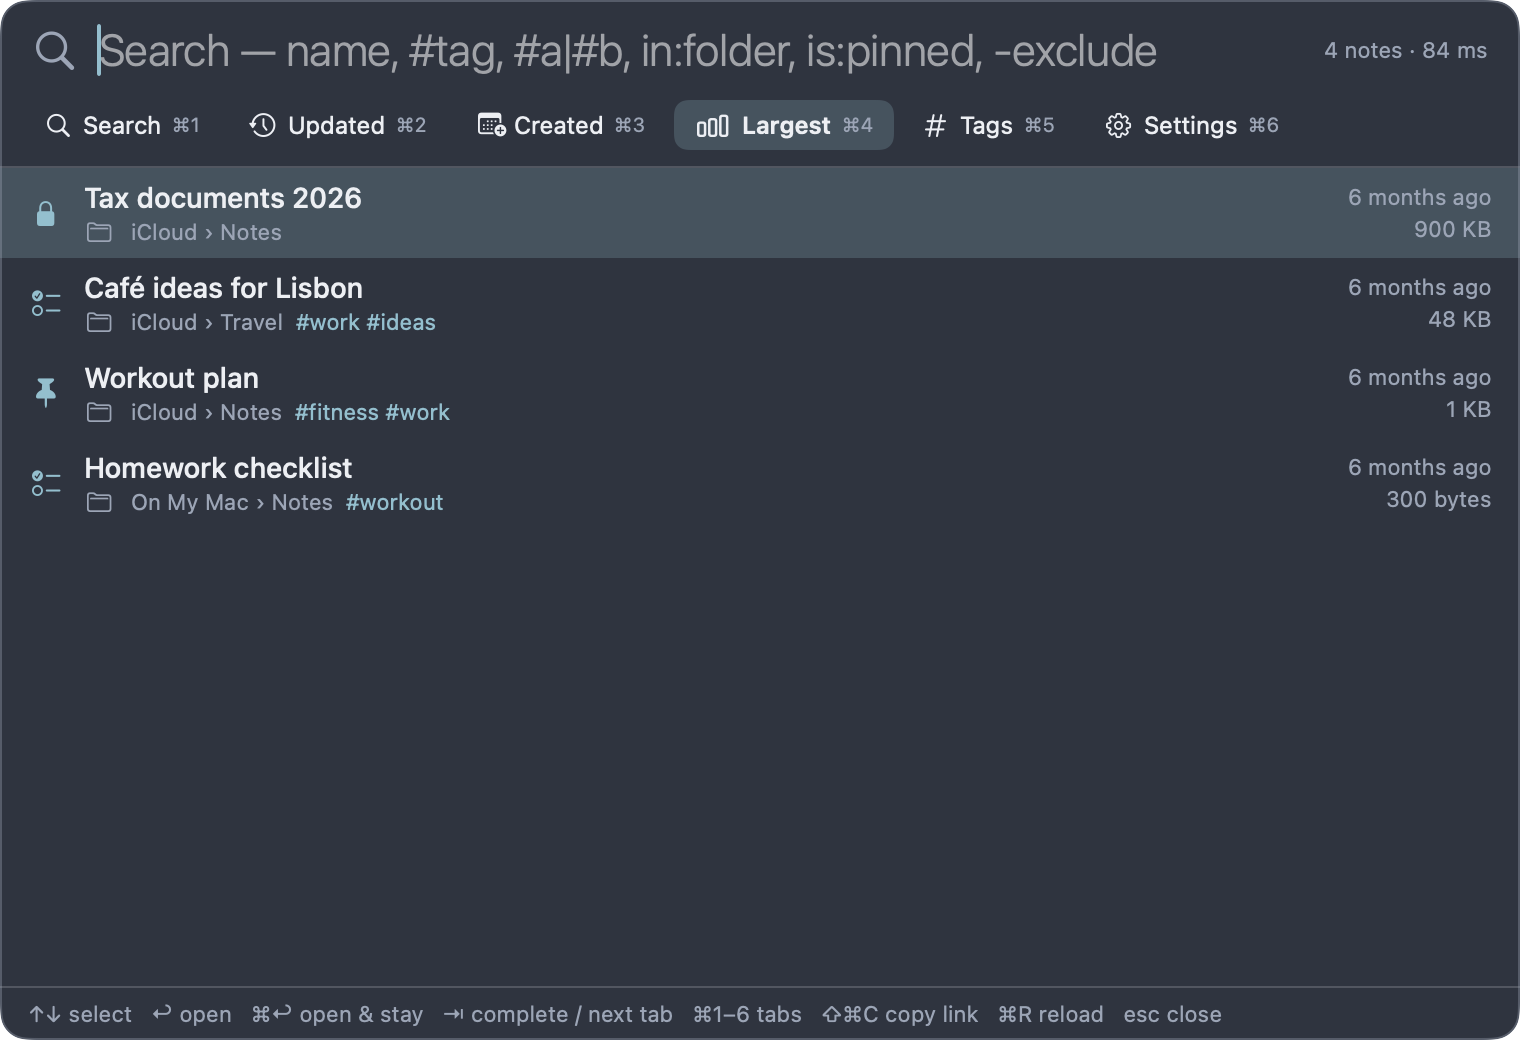
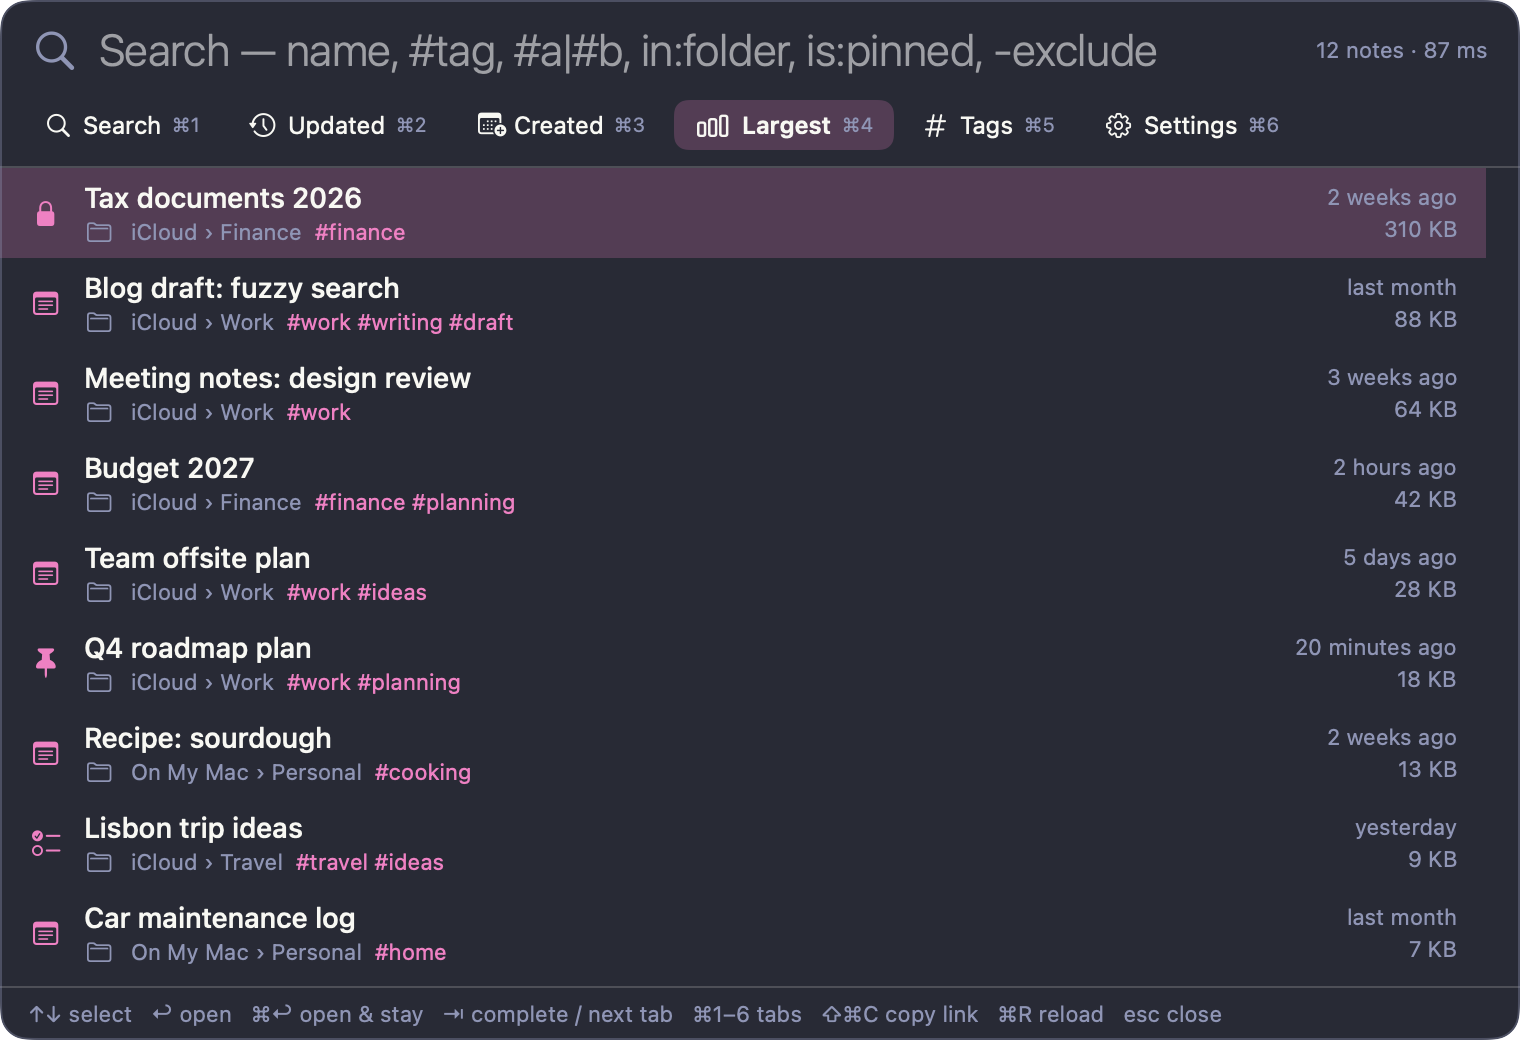
Docs: download link and new mock screenshots
Link the latest release from the README and getting-started guide, and
replace the screenshots with a fuller set rendered from sample notes.

diff --git a/README.md b/README.md
@@ -5,9 +5,19 @@
 Find any Apple Note in a keystroke. NoteSearch lives in the macOS menu bar: press a shortcut, type part of a title,
 a `#hashtag` or a folder name, press Return, and the note opens in Notes.
 
-![Searching by hashtags and title](docs/images/search.png)
+<p align="center"><b><a href="https://github.com/giridharmb/AppleNoteSearch-Docs/releases/latest">⬇ Download the latest version</a></b> · macOS 14 or later · signed and notarized by Apple</p>
 
-*Screenshots use sample data.*
+![The NoteSearch popup listing notes](docs/images/hero.png)
+
+*All screenshots in this documentation show made-up sample notes.*
+
+## Download and install
+
+1. [Download the latest `NoteSearch-<version>.dmg`](https://github.com/giridharmb/AppleNoteSearch-Docs/releases/latest) from the Releases page.
+2. Open it and drag **NoteSearch** to **Applications**.
+3. Open NoteSearch and grant it Full Disk Access when asked.
+
+Step-by-step instructions with pictures are in [Getting started](docs/getting-started.md).
 
 ## What it does
 
@@ -18,6 +28,14 @@ a `#hashtag` or a folder name, press Return, and the note opens in Notes.
 - **Keyboard first**: a global shortcut, arrow keys and Return. No mouse needed.
 - **Private**: reads note titles and metadata only, never note contents, and never connects to the network.
 - **Nine colour themes** and a handful of useful options.
+
+## Screenshots
+
+| | |
+| --- | --- |
+| ![Search combining hashtags and a title word](docs/images/search.png) <br> Either of two hashtags, plus a word in the title | ![Hashtag autocomplete](docs/images/autocomplete.png) <br> Hashtag autocomplete |
+| ![Typo-tolerant search with folder autocomplete](docs/images/typo.png) <br> A typo still finds the note; folders autocomplete too | ![Largest notes tab](docs/images/largest.png) <br> Largest notes (Dracula theme) |
+| ![Tags tab](docs/images/tags.png) <br> Every hashtag with its note count (Midnight theme) | ![Settings](docs/images/settings.png) <br> Settings (Notes Yellow theme) |
 
 ## Documentation
 

diff --git a/docs/getting-started.md b/docs/getting-started.md
@@ -7,7 +7,7 @@
 
 ## Install
 
-1. Download `NoteSearch-<version>.dmg` from the [Releases page](../../../releases).
+1. Download `NoteSearch-<version>.dmg` from the [latest release](https://github.com/giridharmb/AppleNoteSearch-Docs/releases/latest).
 2. Open the DMG and drag **NoteSearch** onto the **Applications** shortcut.
 3. Open NoteSearch from Applications.
 
@@ -17,7 +17,9 @@ The first time it starts, the search popup opens by itself.
 ## Grant Full Disk Access (required, one time)
 
 Apple protects the Notes library, so macOS only lets NoteSearch read it after you allow it.
-Until you do, the popup shows a message instead of your notes.
+Until you do, the popup shows this message instead of your notes:
+
+![The Full Disk Access message](images/access.png)
 
 1. In the popup, click **Open Full Disk Access Settings**
    (or open **System Settings → Privacy & Security → Full Disk Access** yourself).
@@ -31,6 +33,8 @@ NoteSearch uses this access only to read note titles and metadata. See [Privacy]
 1. Press **⌃⌥N** (Control-Option-N) anywhere, or click the menu-bar icon.
 2. Start typing part of a note's title. Results update as you type.
 3. Use **↑ / ↓** to pick a note and press **Return**. Notes comes to the front with that note open.
+
+![The popup with nothing typed](images/hero.png)
 
 With nothing typed, the list shows the notes you opened most recently through NoteSearch, followed by your most
 recently updated notes.

diff --git a/docs/search-syntax.md b/docs/search-syntax.md
@@ -31,7 +31,9 @@ Folder and account names are matched with spaces removed. For a folder called "W
 
 OR also works for plain words and other terms, for example `invoice|receipt` or `in:work|in:clients`.
 
-![Either of two hashtags plus a fuzzy title word](images/search.png)
+![Either of two hashtags plus a title word](images/search.png)
+
+*`#work|#ideas plan`: tagged `#work` or `#ideas`, with "plan" in the title.*
 
 ## Hashtags
 
@@ -47,7 +49,9 @@ OR also works for plain words and other terms, for example `invoice|receipt` or 
 - Press **Tab** to accept the first (highlighted) suggestion, or click any suggestion.
 - Autocomplete also works after `|`, so you can build `#work|#ideas` with two Tab presses.
 
-![Folder autocomplete and typo-tolerant matching](images/typo.png)
+![Hashtag autocomplete](images/autocomplete.png)
+
+*Typing `#w` suggests the hashtags that contain "w"; Tab accepts the highlighted one.*
 
 ## Fuzzy matching and typos
 
@@ -59,6 +63,10 @@ If a word is not found as typed, NoteSearch tries two looser matches against not
   9 letters or more. `wrokout` finds "Workout plan".
 
 These looser matches always rank below exact matches.
+
+![A typo still finds the note](images/typo.png)
+
+*`budgte` still finds "Budget 2027", and `in:fi` offers the Finance folder.*
 
 ## How results are ordered
 

diff --git a/docs/tabs-and-settings.md b/docs/tabs-and-settings.md
@@ -17,9 +17,17 @@ Updated, Created and Largest show the top 50 notes by default; you can change th
 the search box filters these tabs too, using the full [search syntax](search-syntax.md). For example, on
 **Largest**, `#work` shows your largest notes tagged `#work`.
 
+![Most recently updated notes](images/updated.png)
+
+*Updated tab, Nord theme.*
+
 ![Largest notes](images/largest.png)
 
+*Largest tab, Dracula theme.*
+
 ![All hashtags](images/tags.png)
+
+*Tags tab, Midnight theme.*
 
 **About size:** the size shown is the stored size of the note's text. Photos, scans and other attachments are not
 included, so a note with many images can still look small.
